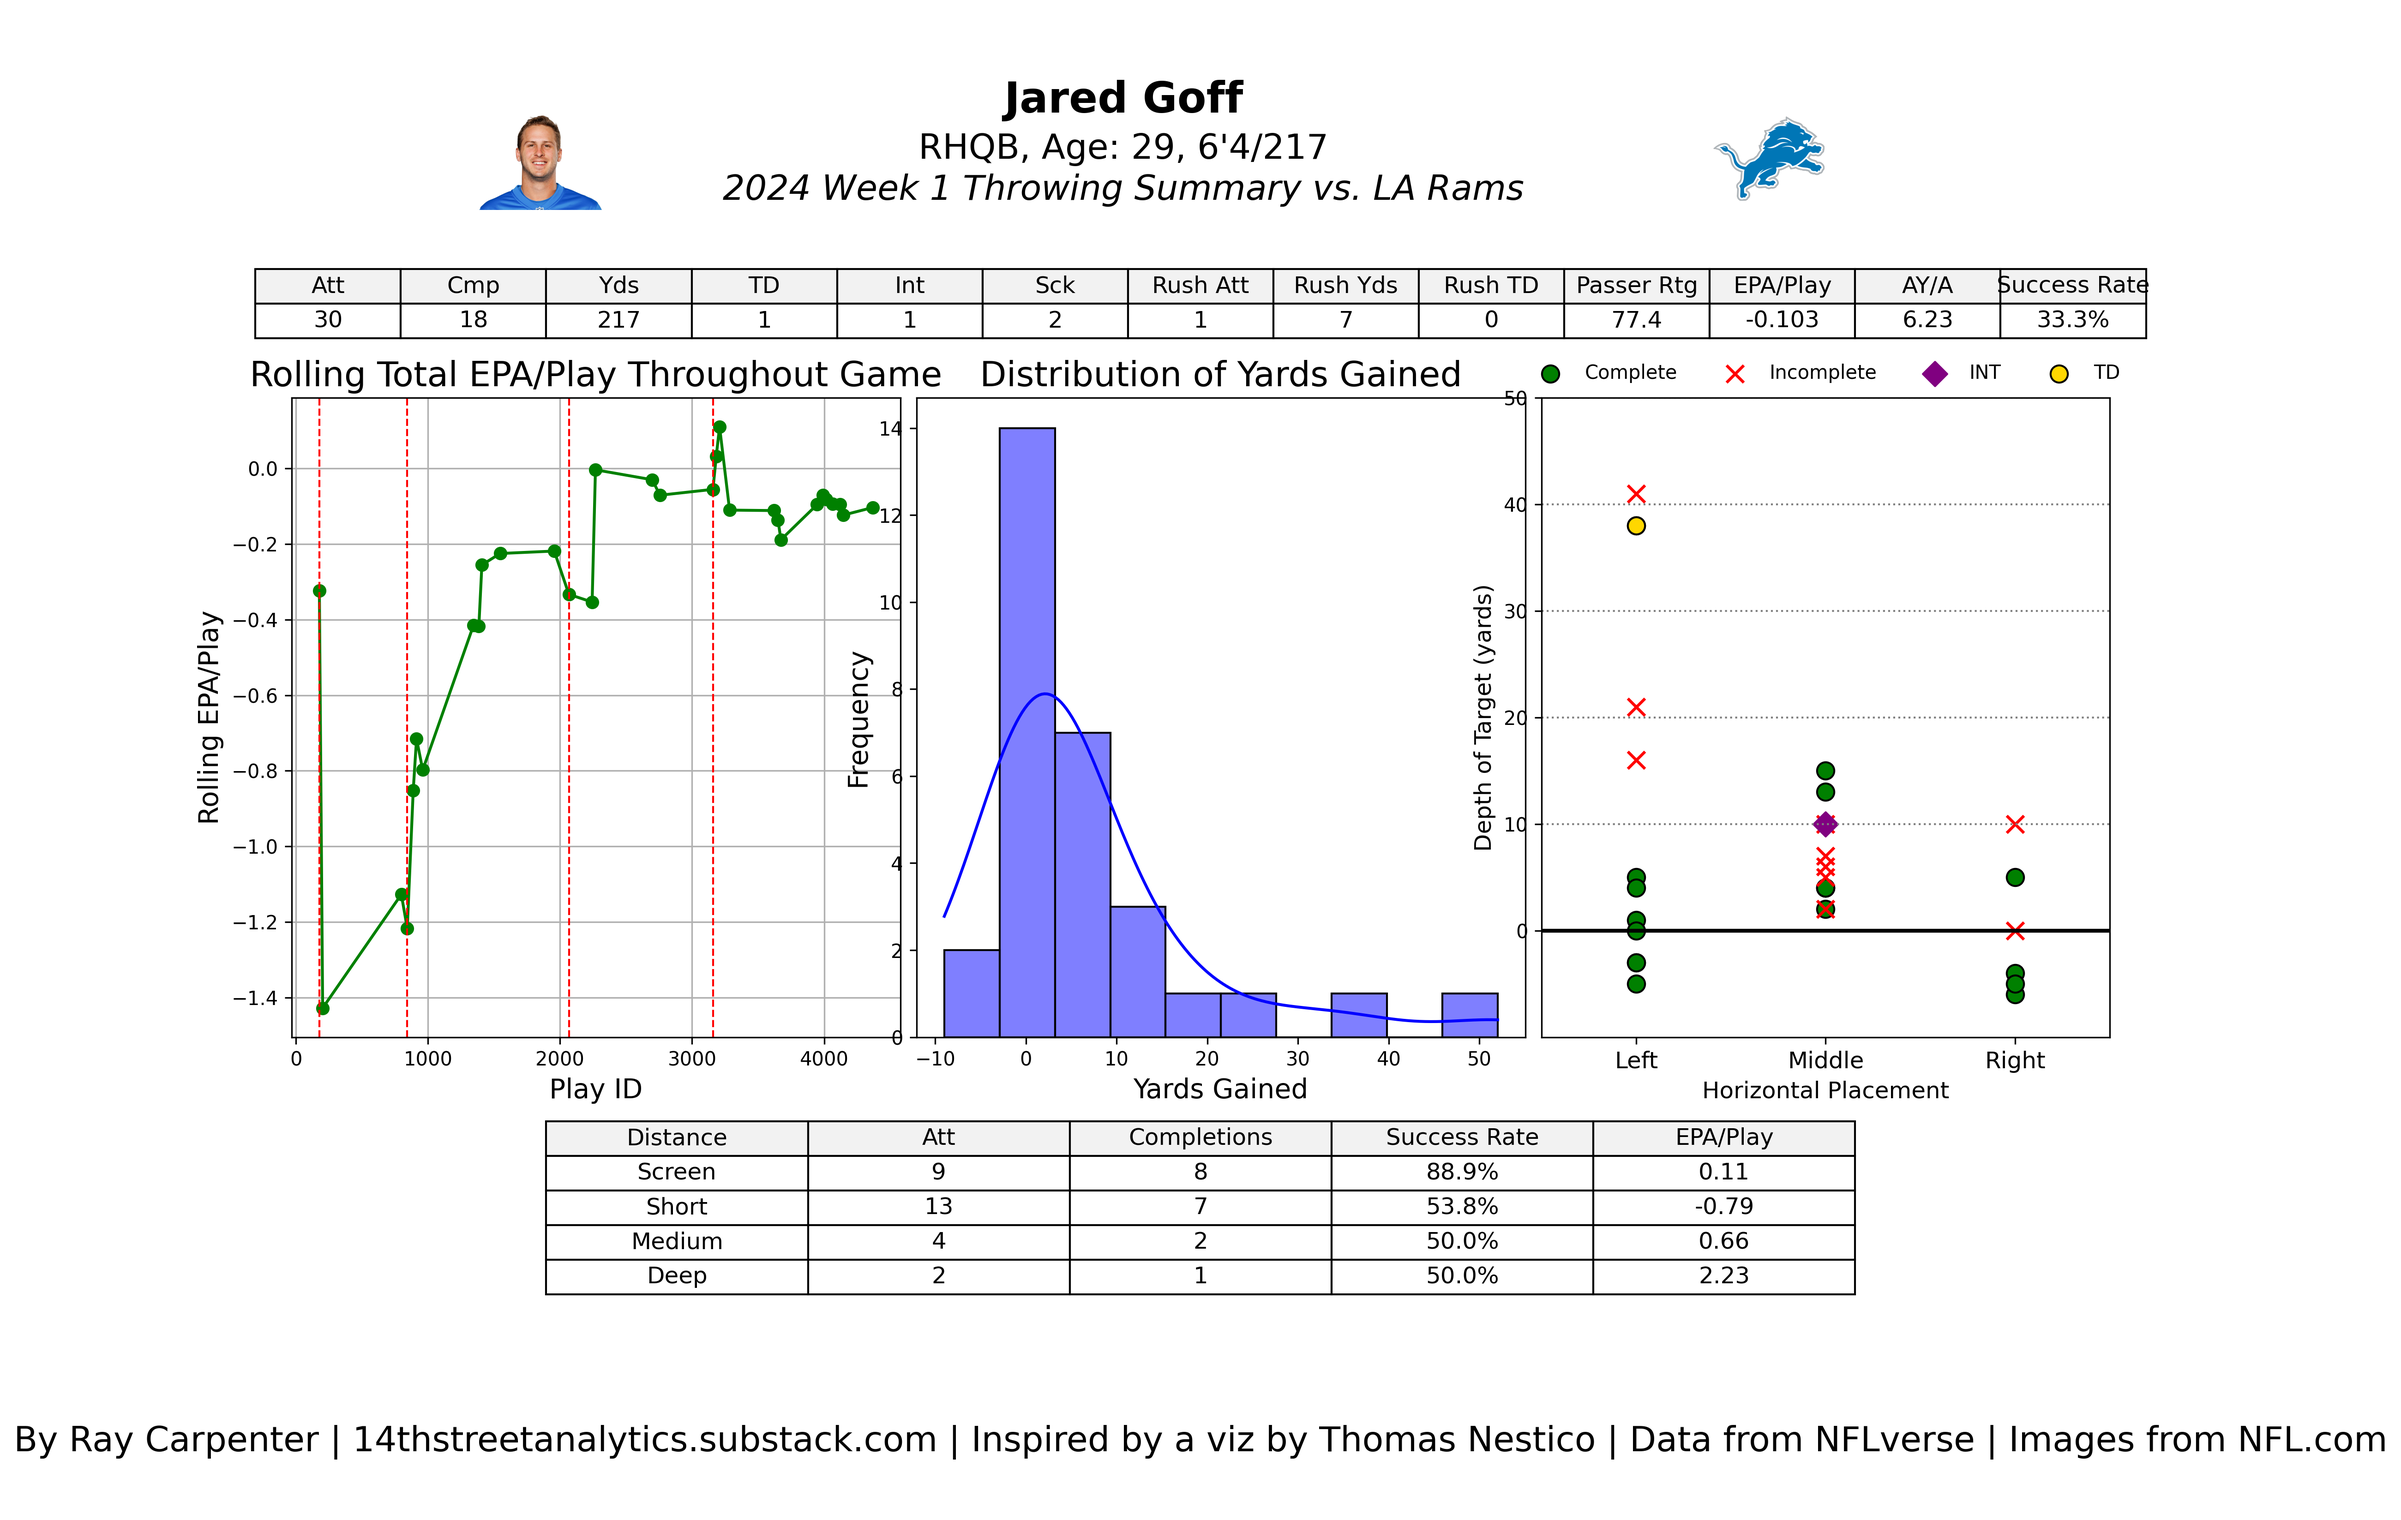
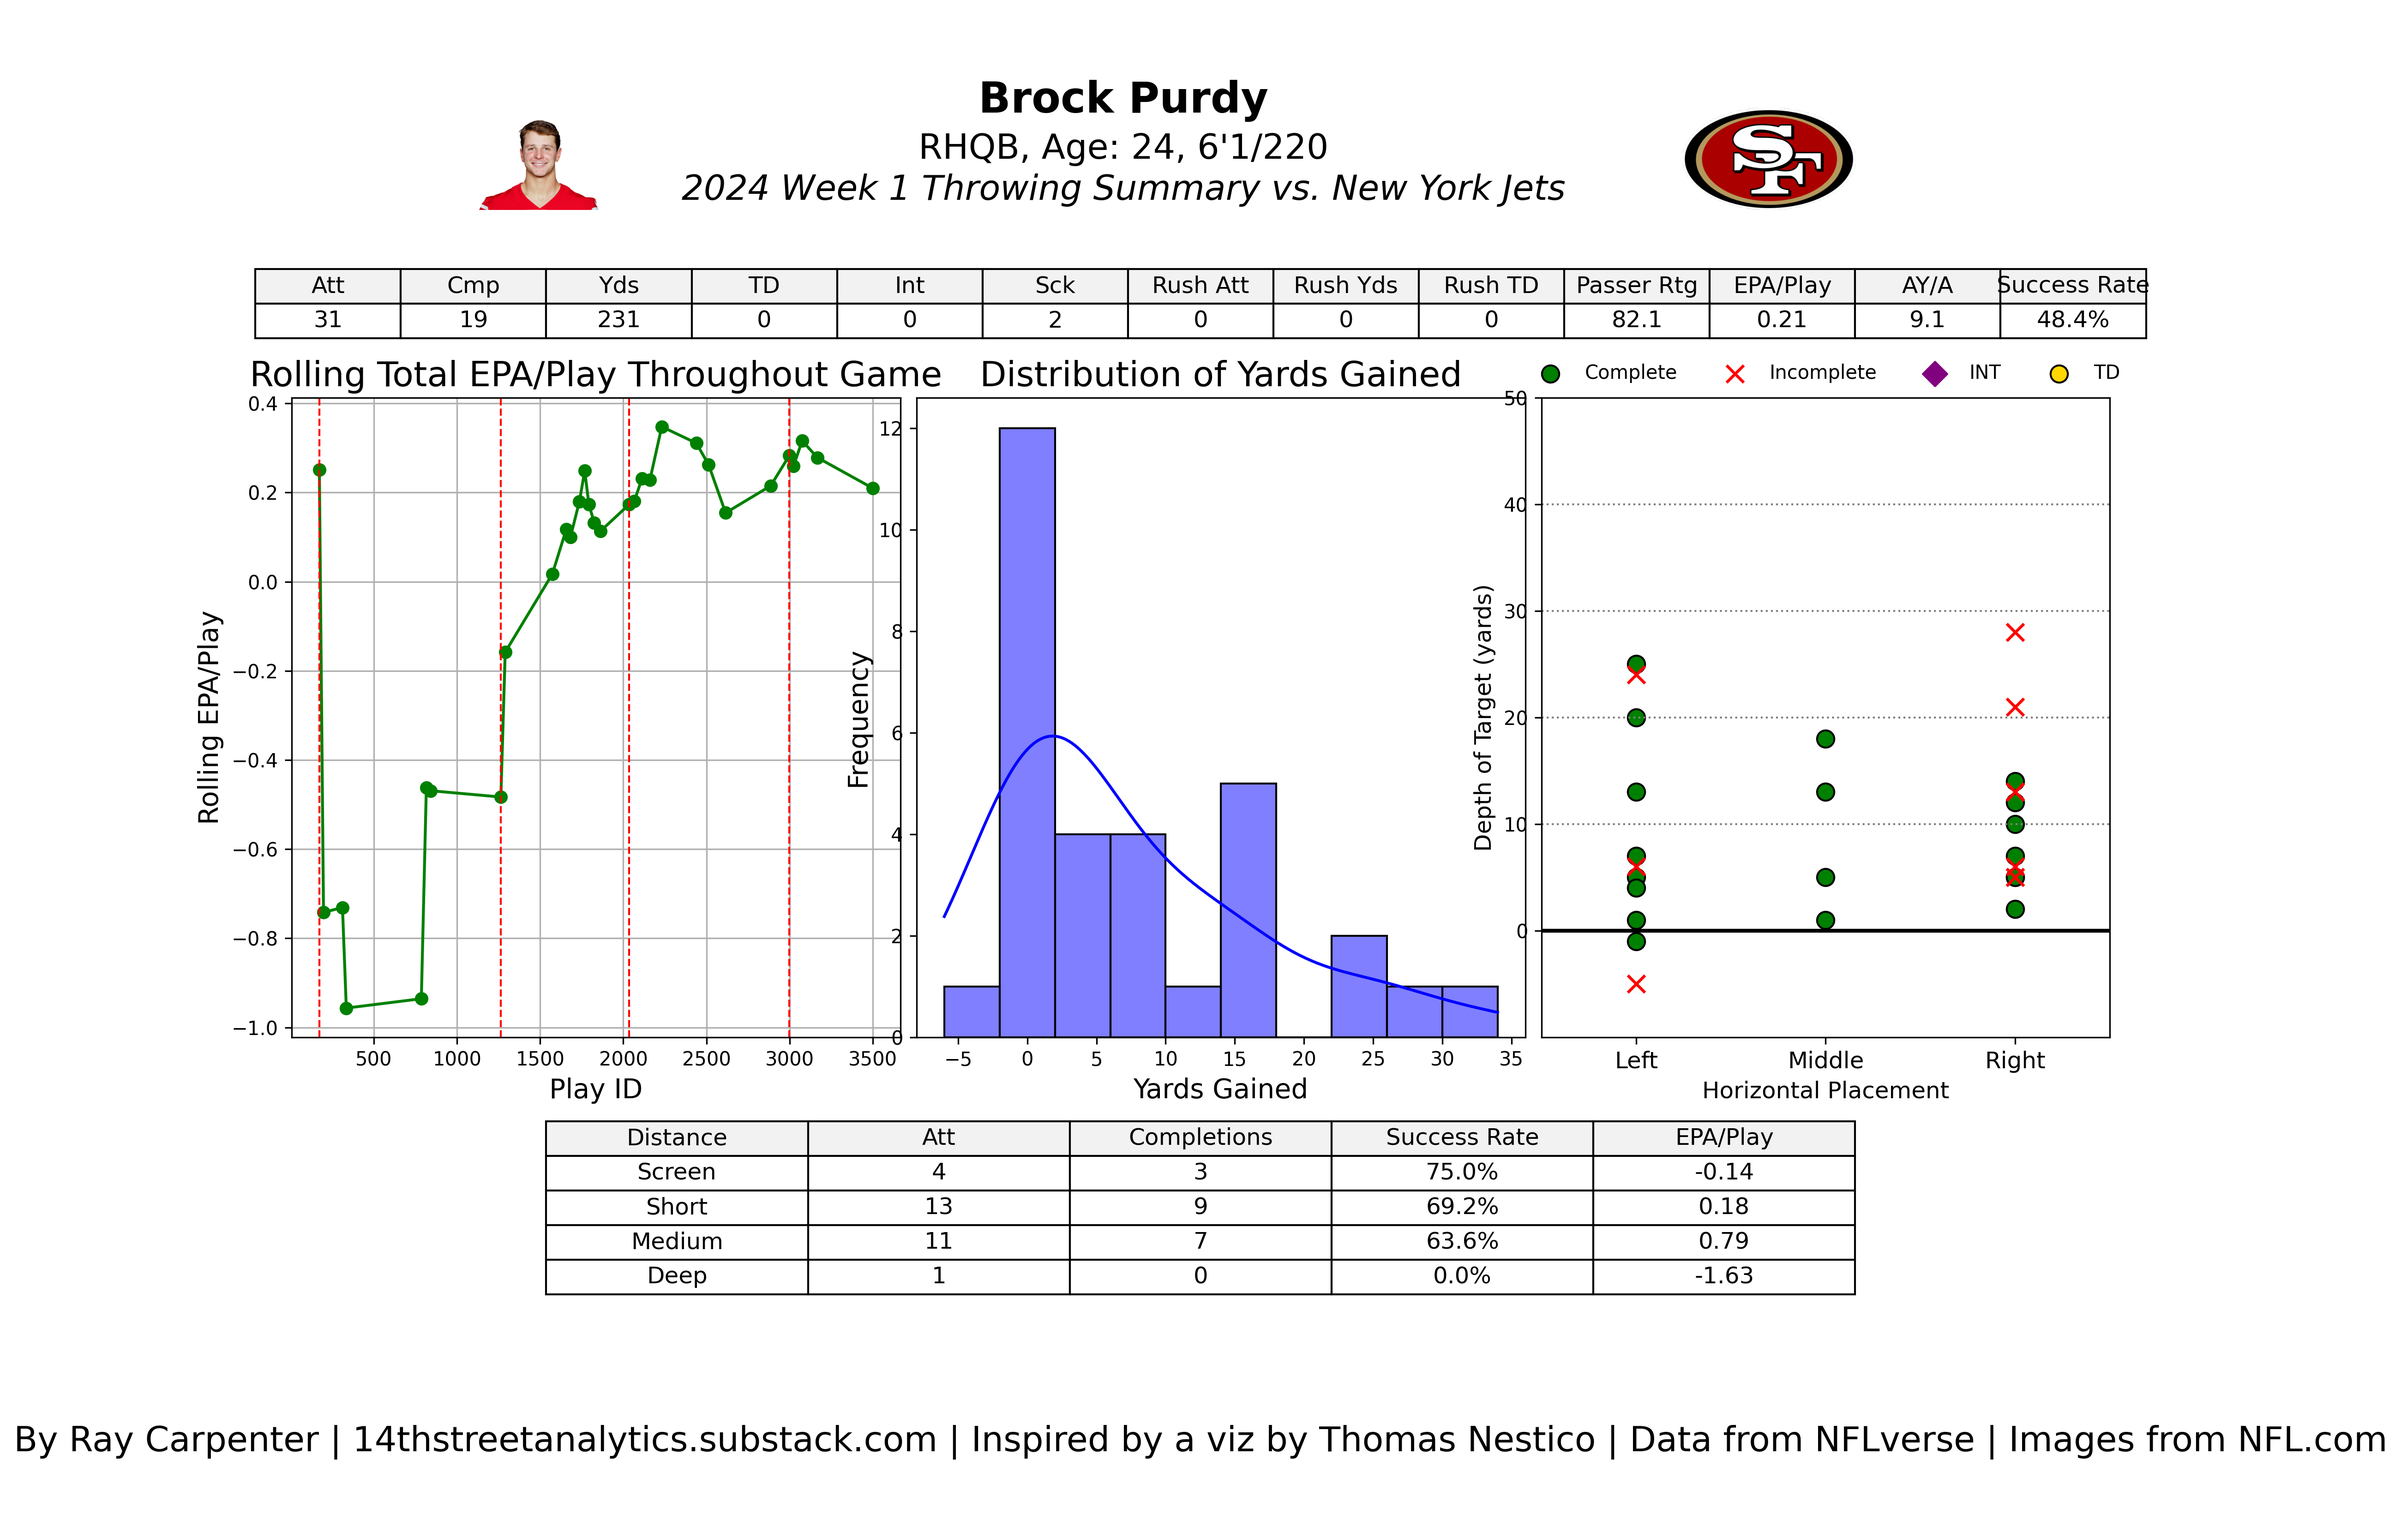
Working on team tiers

diff --git a/throwing_summary/throwing_summary.py b/throwing_summary/throwing_summary.py
@@ -45,7 +45,7 @@ def player_headshot(player_id: str, ax: plt.Axes):
 qb_info = pd.read_csv('C:/Users/RaymondCarpenter/Documents/GitHub/14thstreetanalytics/throwing_summary/qb_info.csv')
 
 # Retrieve player info based on player name
-player_name = 'Jared Goff'  # Make sure this matches the format in the CSV
+player_name = 'Brock Purdy'  # Make sure this matches the format in the CSV
 player_info = qb_info[qb_info['Name'] == player_name].iloc[0]
 
 # Get the player ID from the CSV and use it to fetch the headshot
@@ -53,15 +53,15 @@ player_id = player_info['player_id']
 headshot = get_espn_headshot(player_id)
 
 # Manual filters start here
-filtered_df = data[(data['home_team'] == 'DET') | (data['away_team'] == 'DET')] ### change team RAMS are LA Chargers are LAC
+filtered_df = data[(data['home_team'] == 'SF') | (data['away_team'] == 'SF')] ### change team RAMS are LA Chargers are LAC
 
 # Separate filters for passing and rushing plays
-passing_plays = filtered_df[filtered_df['passer_player_name'] == 'J.Goff'] ### change qb
-rushing_plays = filtered_df[filtered_df['rusher_player_name'] == 'J.Goff'] ### change qb
+passing_plays = filtered_df[filtered_df['passer_player_name'] == 'B.Purdy'] ### change qb
+rushing_plays = filtered_df[filtered_df['rusher_player_name'] == 'B/Purdy'] ### change qb
 
 # Filter game data by game id
-game_data_passing = passing_plays[passing_plays['game_id'] == '2024_01_LA_DET'] ### follow format YEAR_WEEK_AWAY_HOME 2023_12_BUF_PHI
-game_data_rushing = rushing_plays[rushing_plays['game_id'] == '2024_01_LA_DET']
+game_data_passing = passing_plays[passing_plays['game_id'] == '2024_01_NYJ_SF'] ### follow format YEAR_WEEK_AWAY_HOME 2023_12_BUF_PHI
+game_data_rushing = rushing_plays[rushing_plays['game_id'] == '2024_01_NYJ_SF']
 
 # Calculate cumulative completions and attempts for passing plays
 game_data_passing['cumulative_completions'] = game_data_passing['complete_pass'].cumsum()
@@ -202,14 +202,14 @@ summary_table = {
 # Create the updated summary DataFrame
 summary_df = pd.DataFrame.from_dict(summary_table)
 
-player_name = 'Jared Goff' 
+player_name = 'Brock Purdy' 
 player_info = qb_info[qb_info['Name'] == player_name].iloc[0]
 
 # Get the player ID from the CSV and fetch the headshot
 player_id = player_info['player_id']
 headshot = get_espn_headshot(player_id)
 
-logo_path = '/Users/raymondcarpenter/Documents/GitHub/14thstreetanalytics/throwing_summary/lions_logo.png' # manually find logo path
+logo_path = '/Users/raymondcarpenter/Documents/GitHub/14thstreetanalytics/throwing_summary/niners_logo.png' # manually find logo path
 logo = Image.open(logo_path)
 
 def qb_dashboard(game_data_passing: pd.DataFrame, headshot: Image, logo: Image, summary_df: pd.DataFrame, pass_distance_summary: pd.DataFrame, quarter_positions, save_path: str = None):
@@ -252,9 +252,9 @@ def qb_dashboard(game_data_passing: pd.DataFrame, headshot: Image, logo: Image, 
     ax_logo.axis('off')
 
     # Biographical Information with adjusted horizontal and vertical space
-    ax_bio.text(0.5, 0.95, 'Jared Goff', fontsize=22, ha='center', fontweight='bold')  # manual
-    ax_bio.text(0.5, 0.50, 'RHQB, Age: 29, 6\'4/217', fontsize=18, ha='center')  # manual
-    ax_bio.text(0.5, 0.1, '2024 Week 1 Throwing Summary vs. LA Rams', fontsize=18, ha='center', fontstyle='italic')  # manual
+    ax_bio.text(0.5, 0.95, 'Brock Purdy', fontsize=22, ha='center', fontweight='bold')  # manual
+    ax_bio.text(0.5, 0.50, 'RHQB, Age: 24, 6\'1/220', fontsize=18, ha='center')  # manual
+    ax_bio.text(0.5, 0.1, '2024 Week 1 Throwing Summary vs. New York Jets', fontsize=18, ha='center', fontstyle='italic')  # manual
     ax_bio.axis('off')
 
     # Summary Table Plot - Adjusted for more compact cells
